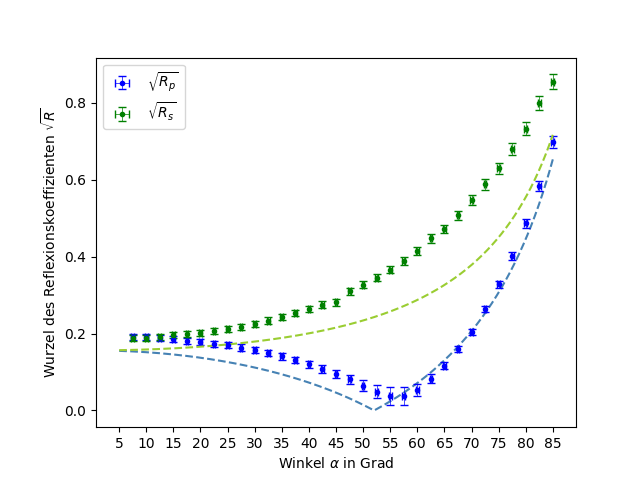
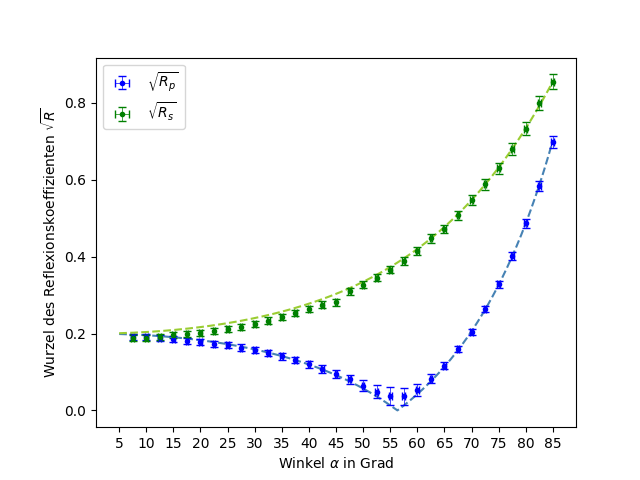
hotfix: wrong O11 function
- thanks to Leander for finding this error

diff --git a/IMP_utils_py/physics/plotting.py b/IMP_utils_py/physics/plotting.py
@@ -58,7 +58,7 @@ def O11_Rs_Rp_model(alpha_e: float, n1: float, n2: float) -> tuple:
     sqrt(R_p) = sqrt(tan^2(alpha_e - alpha_g) / tan^2(alpha_e + alpha_g))
     """
     alpha_e = alpha_e * np.pi/180 # from degrees to radian
-    alpha_g = np.arcsin(n1/n2) * alpha_e # Brechungsgesetz
+    alpha_g = np.arcsin(np.sin(alpha_e)/n2) # Brechungsgesetz
     sqrt_R_s = np.sqrt(np.sin(alpha_e - alpha_g)**2 / np.sin(alpha_e + alpha_g)**2)
     sqrt_R_p = np.sqrt(np.tan(alpha_e - alpha_g)**2 / np.tan(alpha_e + alpha_g)**2)
     return sqrt_R_s, sqrt_R_p

diff --git a/setup.py b/setup.py
@@ -7,7 +7,7 @@ long_description = (this_directory / "README.md").read_text()
 
 setup(
     name="IMP_utils_py",
-    version="2.1.0",
+    version="2.1.1",
     description="stuff to make your IMP life easier",
     long_description=long_description,
     long_description_content_type="text/markdown",
